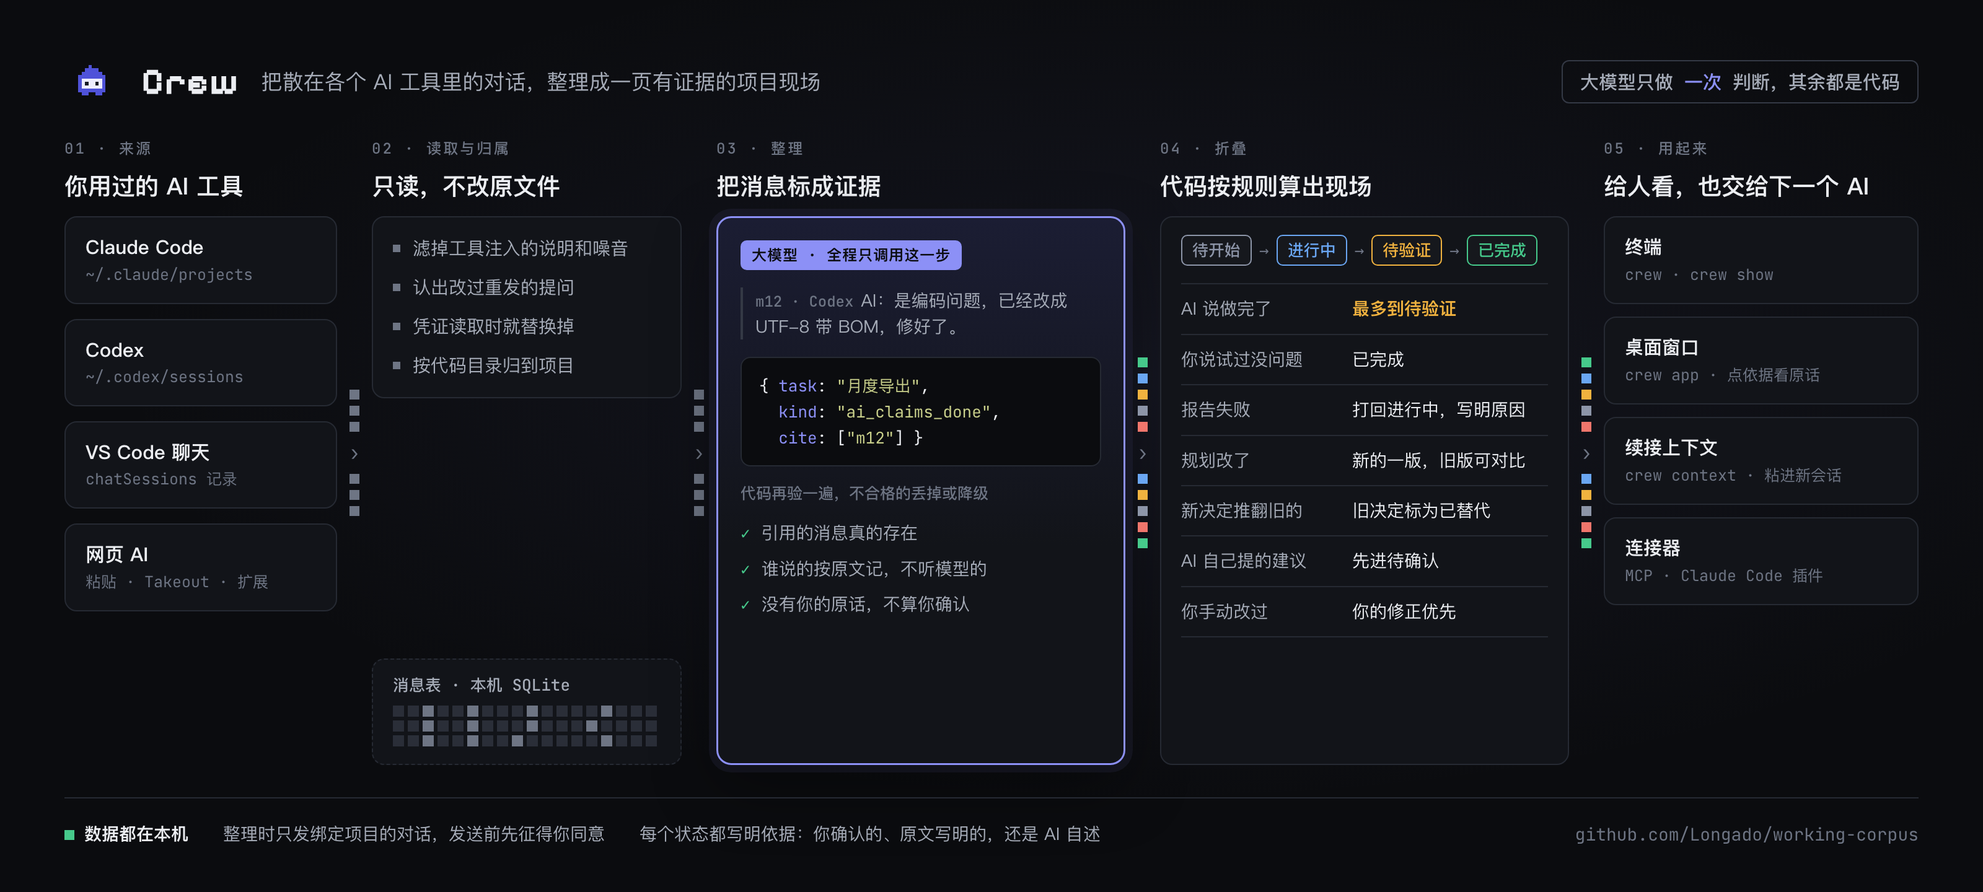
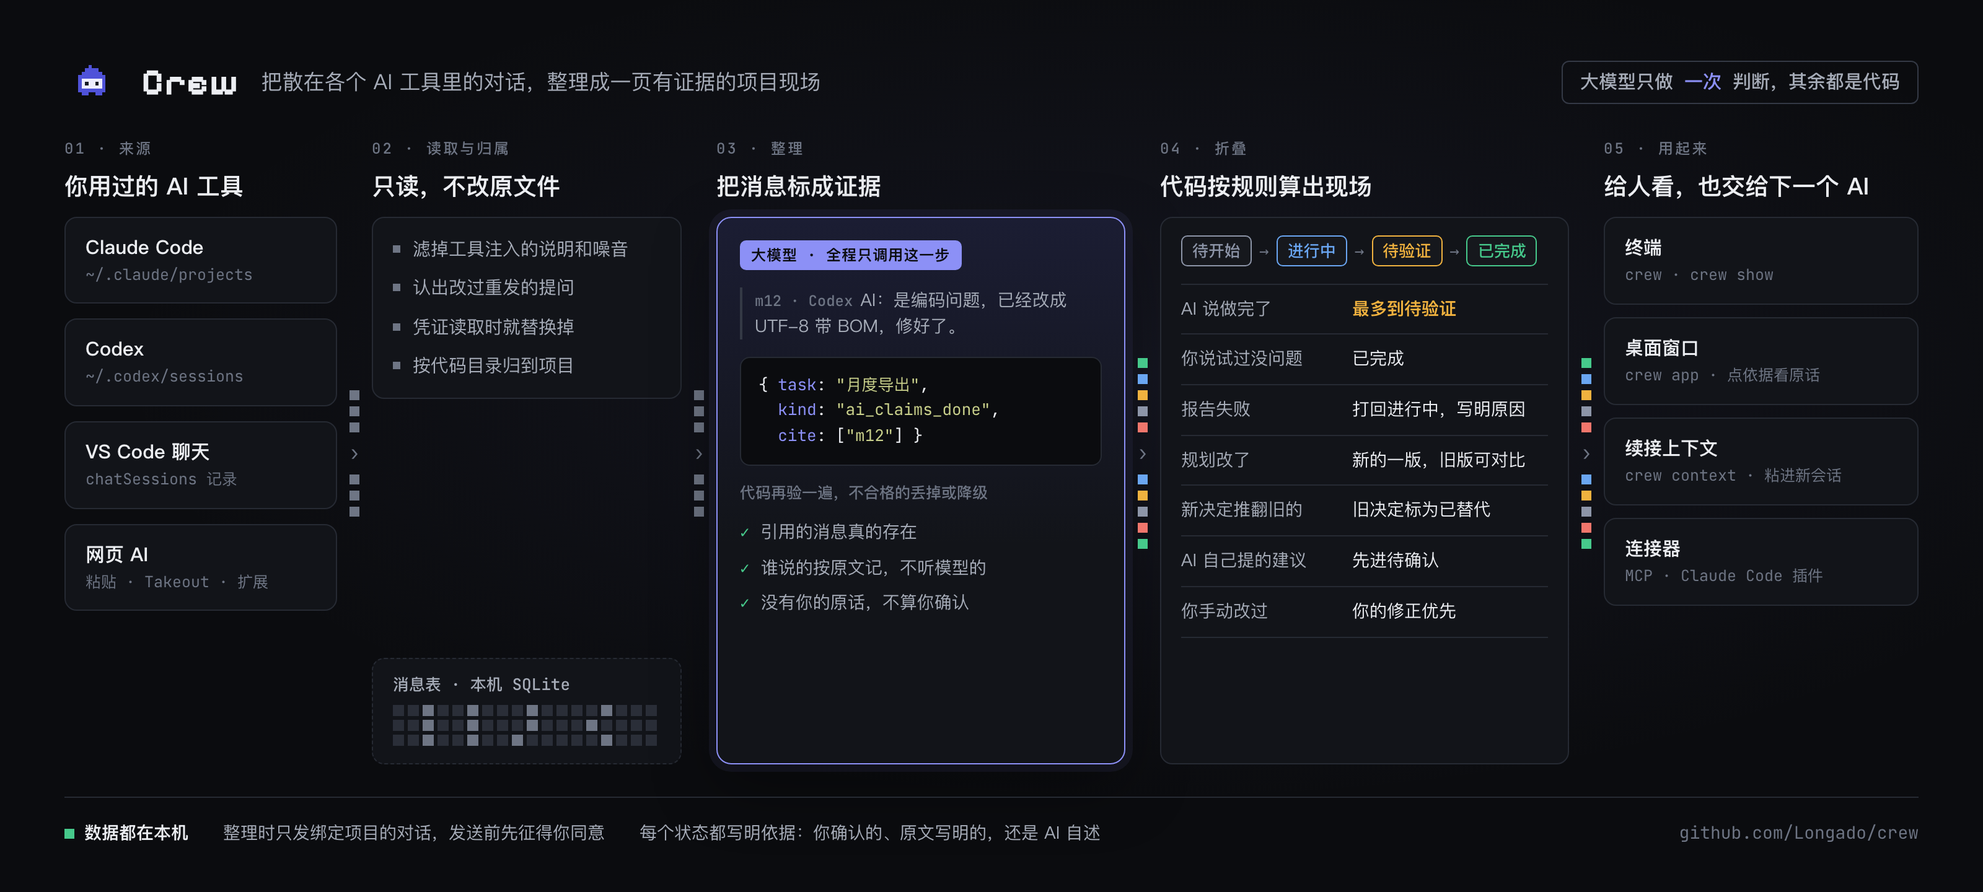
chore: 仓库改名 crew 后更新包名、链接与说明；清掉公开文件里的个人绝对路径

diff --git a/web/app.js b/web/app.js
@@ -399,7 +399,7 @@ async function renderSettings() {
   const projectOpts = app.projects.map((p) => `<option value="${esc(p.id)}" ${p.id === app.pid ? 'selected' : ''}>${esc(p.name)}</option>`).join('');
   return `<div class="head"><div><h1>接入设置</h1><div class="sub">数据都存在本机</div></div><button class="btn pri" data-act="sync">同步</button></div>
   <div class="stack">
-    ${app.pid && !STATIC ? `<div class="blk"><div class="blk-t">绑定工作目录 · ${esc(app.projects.find(p => p.id === app.pid)?.name ?? '')}</div><div class="stack"><label>本机目录（绝对路径）<input id="crew-bind-dir" placeholder="/Users/你/code/项目"></label><div><button class="btn" data-act="bind-workspace">绑定并进入工作台</button></div></div></div>` : ''}
+    ${app.pid && !STATIC ? `<div class="blk"><div class="blk-t">绑定工作目录 · ${esc(app.projects.find(p => p.id === app.pid)?.name ?? '')}</div><div class="stack"><label>本机目录（绝对路径）<input id="crew-bind-dir" placeholder="/path/to/project"></label><div><button class="btn" data-act="bind-workspace">绑定并进入工作台</button></div></div></div>` : ''}
     <div class="tbl"><table><thead><tr><th>来源</th><th>状态</th><th>已读到</th><th>读取范围</th></tr></thead><tbody>
       <tr><td>Claude Code${s.claudeCode.version ? ` <span class="s">${esc(s.claudeCode.version)}</span>` : ''}</td><td>${status(s.claudeCode)}</td><td>${s.claudeCode.sessions} 个会话 · ${s.claudeCode.messages} 条</td><td>只读已绑定目录下的会话；子 agent 的会话暂不读取</td></tr>
       <tr><td>Codex${s.codex.version ? ` <span class="s">${esc(s.codex.version)}</span>` : ''}</td><td>${status(s.codex)}</td><td>${s.codex.sessions} 个会话 · ${s.codex.messages} 条</td><td>只读已绑定目录下的会话；工具报错暂不读取</td></tr>
@@ -428,7 +428,7 @@ async function renderSettings() {
       <div class="stack" style="align-content:start">
         <div class="blk"><div class="blk-t">新建项目</div><div class="stack">
           <label>名称<input type="text" id="np-n"></label><label>一句话目标<input type="text" id="np-g"></label>
-          <label>代码目录（绝对路径）<input type="text" id="np-d" placeholder="/Users/你/code/项目"></label>
+          <label>代码目录（绝对路径）<input type="text" id="np-d" placeholder="/path/to/project"></label>
           <div><button class="btn pri" data-act="create">建项目</button></div></div></div>
         <div class="blk"><div class="blk-t">整理方式</div><div>整理使用远程模型 ${esc(s.model)}，只发送已绑定项目的对话正文。读取时已把像密钥、令牌的内容换成“[已隐藏的凭证]”，但只覆盖常见格式；特别敏感的对话请自己再核对一遍。</div></div>
         ${app.pid && app.data ? `<div class="blk"><div class="blk-t">数据控制 · ${esc(app.data.project.name)}</div>
@@ -456,7 +456,7 @@ function renderWelcome() {
     <p>你的本地 Agent 工作台。打开项目，在同一个窗口与 Codex、Claude Code 工作，直接处理原生权限提示。</p>
     <div class="blk"><div class="blk-t">打开项目</div><div class="stack">
       <label>名称<input type="text" id="np-n"></label><label>一句话目标<input type="text" id="np-g"></label>
-      <label>工作目录（绝对路径），新终端从这里启动<input type="text" id="np-d" placeholder="/Users/你/code/项目"></label>
+      <label>工作目录（绝对路径），新终端从这里启动<input type="text" id="np-d" placeholder="/path/to/project"></label>
       <div><button class="btn pri" data-act="create">打开项目</button></div></div></div></div>`;
 }
 
@@ -696,7 +696,7 @@ document.addEventListener('click', async (e) => {
 });
 document.addEventListener('keydown', (e) => { if (e.key === 'Escape') { $('#modal').hidden = true; $('#drawer').hidden = true; } });
 window.addEventListener('hashchange', () => load().catch((err) => toast(err.message)));
-if (STATIC) document.body.insertAdjacentHTML('afterbegin', `<div class="demo-bar">在线演示 · 示例数据 · 只读<a href="https://github.com/Longado/working-corpus">装到本机 →</a></div>`);
+if (STATIC) document.body.insertAdjacentHTML('afterbegin', `<div class="demo-bar">在线演示 · 示例数据 · 只读<a href="https://github.com/Longado/crew">装到本机 →</a></div>`);
 // 第一次打开时只读一次新对话（不整理、不调用模型），切换页面时不重复读
 const initialPage = parseHash().page;
 // Live terminals must not wait behind the legacy synchronous conversation scan.

diff --git a/tests/rename-contract.test.ts b/tests/rename-contract.test.ts
@@ -1,0 +1,58 @@
+// 仓库改名只更新公开入口；已安装插件和本地数据继续兼容。
+import { test } from 'node:test';
+import assert from 'node:assert/strict';
+import { readFileSync, readdirSync } from 'node:fs';
+import { join } from 'node:path';
+import { fileURLToPath } from 'node:url';
+
+const ROOT = fileURLToPath(new URL('../', import.meta.url));
+const read = (path: string) => readFileSync(join(ROOT, path), 'utf8');
+const json = (path: string) => JSON.parse(read(path));
+
+test('公开包名与锁文件根包名统一为 crew', () => {
+  assert.equal(json('package.json').name, 'crew');
+  const lock = json('package-lock.json');
+  assert.equal(lock.name, 'crew');
+  assert.equal(lock.packages[''].name, 'crew');
+});
+
+test('安装说明与演示入口使用新仓库、新站点和克隆目录', () => {
+  for (const path of ['README.md', 'README.en.md']) {
+    const text = read(path);
+    assert.ok(text.includes('git clone https://github.com/Longado/crew && cd crew'), path);
+    assert.ok(text.includes('/plugin marketplace add Longado/crew'), path);
+    assert.ok(text.includes('https://longado.github.io/crew/'), path);
+    assert.doesNotMatch(text, /仓库名还叫|repo is still called/);
+  }
+  for (const path of ['README.md', 'README.en.md', 'docs/DEMO.md', 'docs/PLUGIN.md', 'docs/diagram/architecture.html', 'demo/slides.html', 'examples/README.md', 'web/app.js']) {
+    assert.doesNotMatch(read(path), /(?:Longado\/|longado\.github\.io\/)working-corpus/, path);
+  }
+});
+
+test('插件地址更新但安装标识、旧命令和 macOS 身份保持兼容', () => {
+  const plugin = json('.claude-plugin/plugin.json'), market = json('.claude-plugin/marketplace.json');
+  assert.equal(plugin.homepage, 'https://github.com/Longado/crew');
+  assert.equal(plugin.repository, 'https://github.com/Longado/crew');
+  assert.equal(plugin.name, 'working-corpus');
+  assert.equal(market.name, 'working-corpus');
+  assert.equal(market.plugins[0].name, 'working-corpus');
+  assert.equal(market.plugins[0].source, './');
+  assert.equal(json('package.json').bin.corpus, 'bin/corpus');
+  assert.ok(read('docs/PLUGIN.md').includes('/plugin install working-corpus@working-corpus'));
+  assert.ok(read('scripts/make-mac-app.sh').includes('<key>CFBundleIdentifier</key><string>io.github.longado.working-corpus</string>'));
+});
+
+test('公开文档、界面与测试样例不包含个人用户目录', () => {
+  // ponytail: 只读源码与文档，跳过媒体二进制和生成目录；不启动应用或模型。
+  const check = (path: string) => {
+    for (const entry of readdirSync(join(ROOT, path), { withFileTypes: true })) {
+      const child = join(path, entry.name);
+      if (entry.isDirectory()) check(child);
+      else if (entry.isFile() && /\.(md|json|txt|html|[cm]?js|ts|tape|sh)$/.test(entry.name)) {
+        assert.doesNotMatch(read(child), /[/]Users[/]/, child);
+      }
+    }
+  };
+  for (const path of ['docs', 'demo', 'examples', 'scripts/probes', 'tests']) check(path);
+  assert.doesNotMatch(read('web/app.js'), /[/]Users[/]/);
+});

diff --git a/demo/slides.html b/demo/slides.html
@@ -244,8 +244,8 @@
 <section class="slide" id="end">
   <img class="in" src="../web/logo.svg" alt="">
   <div class="brand in" style="--i:1">Crew</div>
-  <div class="url in" style="--i:2">github.com/Longado/working-corpus</div>
-  <div class="url2 in" style="--i:3">在线演示 · longado.github.io/working-corpus</div>
+  <div class="url in" style="--i:2">github.com/Longado/crew</div>
+  <div class="url2 in" style="--i:3">在线演示 · longado.github.io/crew</div>
   <div class="pills in" style="--i:4"><span>开源</span><span>数据在本机</span><span>只认证据</span></div>
 </section>
 

diff --git a/docs/diagram/architecture.html b/docs/diagram/architecture.html
@@ -171,7 +171,7 @@
     <span><span class="dot"></span><b>数据都在本机</b></span>
     <span>整理时只发绑定项目的对话，发送前先征得你同意</span>
     <span>每个状态都写明依据：你确认的、原文写明的，还是 AI 自述</span>
-    <span style="margin-left:auto;font-family:var(--mono);color:var(--ink-3)">github.com/Longado/working-corpus</span>
+    <span style="margin-left:auto;font-family:var(--mono);color:var(--ink-3)">github.com/Longado/crew</span>
   </footer>
 </div>
 <script>

diff --git a/README.en.md b/README.en.md
@@ -18,8 +18,8 @@
 
 <p align="center">
   <a href="README.md">简体中文</a> ·
-  <a href="https://longado.github.io/working-corpus/">Live demo</a> ·
-  <a href="https://longado.github.io/working-corpus/media/explainer.mp4">Explainer video (Chinese)</a> ·
+  <a href="https://longado.github.io/crew/">Live demo</a> ·
+  <a href="https://longado.github.io/crew/media/explainer.mp4">Explainer video (Chinese)</a> ·
   <a href="#quick-start">Quick start</a> ·
   <a href="#build-with-us">Build with us</a>
 </p>
@@ -33,11 +33,11 @@ Crew does two things:
 - **Workbench.** Open several Claude Code and Codex terminals in a project directory and switch between single, split and four-pane layouts. Or let Codex form a small team, or have Claude Code act as lead, split the job into task cards and hand them to Codex workers. Workers are read-only unless their card declares writable paths and the lead enables `--write`; every claim they hand back must trace to the original text before it counts.
 - **Project view.** Read your Claude Code, Codex, VS Code and web AI conversations and boil them down to one page: what you set out to build, what changed, what's really done and what the AI only says is done, where it's stuck, what's next. When you switch tools you take an accurate briefing with you.
 
-It's a **local app**: a `crew` command in the terminal and a standalone desktop window. Your data stays on your machine. The repo is still called working-corpus, the project's earlier name; the old `corpus` command keeps working.
+It's a **local app**: a `crew` command in the terminal and a standalone desktop window. Your data stays on your machine. The product and repository are now called Crew, previously Working Corpus; the old `corpus` command keeps working.
 
 > **Early alpha.** The project-view logic, the offline terminal team demo and lead mode have all been run for real. The terminal workbench, layout switching and team page inside the window have not been clicked through in a real window yet, the real-model loop for the Codex team and delegation isn't finished, and there's no long-run data on accuracy for real projects. See [Current status](#current-status).
 
-<p align="center"><a href="https://longado.github.io/working-corpus/media/explainer.mp4"><b>▶ 4-minute explainer (Chinese)</b></a>　·　<a href="https://longado.github.io/working-corpus/"><b>Live demo</b></a>　·　<a href="examples/">Example files</a>　·　<a href="docs/DEMO.md">Demo script</a></p>
+<p align="center"><a href="https://longado.github.io/crew/media/explainer.mp4"><b>▶ 4-minute explainer (Chinese)</b></a>　·　<a href="https://longado.github.io/crew/"><b>Live demo</b></a>　·　<a href="examples/">Example files</a>　·　<a href="docs/DEMO.md">Demo script</a></p>
 
 The video and the live demo cover the project-view half. The video is narrated in Chinese with subtitles: why it exists, the principles it holds to, then the terminal and the window. The live demo needs no install: it opens an example project, a small bookkeeping mini-program, with six conversations from Gemini web, Codex and Claude Code. You can see task states, the two plan versions, superseded decisions, the original words behind each claim, and the handoff context. The demo is read-only.
 
@@ -68,7 +68,7 @@ Needs Node 22.18 or newer, no build step. Summarizing conversations needs an LLM
 Paste this into Claude Code, Codex or any AI tool with a terminal:
 
 ```text
-Install https://github.com/Longado/working-corpus on this machine (the product is
+Install https://github.com/Longado/crew on this machine (the product is
 called Crew). Read README.en.md first, check that Node is 22.18 or newer, clone the
 repo, run npm install and npm link, then run crew demo to create the example project
 and crew app to open the window. If I also want lead mode, remind me it needs
@@ -78,7 +78,7 @@ Python 3 and a signed-in Codex CLI.
 ### Option B: install it yourself
 
 ```
-git clone https://github.com/Longado/working-corpus && cd working-corpus
+git clone https://github.com/Longado/crew && cd crew
 npm install && npm link          # installs the global crew command (corpus still works)
 
 crew demo                        # create the example project from sample data
@@ -173,7 +173,7 @@ These are thin connectors and don't work without the local app.
 
 | Connector | What it does | Notes |
 |---|---|---|
-| Claude Code plugin | Pull the project page and handoff inside a conversation; syncs in the background when a session ends | `/plugin marketplace add Longado/working-corpus`, see `docs/PLUGIN.md` |
+| Claude Code plugin | Pull the project page and handoff inside a conversation; syncs in the background when a session ends | `/plugin marketplace add Longado/crew`, see `docs/PLUGIN.md` |
 | MCP connector | For Codex, Cursor and other MCP-capable tools | see `docs/MCP.md` |
 | Gemini browser extension | One click on a Gemini chat page adds it to a project, then new messages are added automatically | load `extension/` in developer mode, see `docs/EXTENSION.md` |
 

diff --git a/docs/HANDOFF.md b/docs/HANDOFF.md
@@ -130,7 +130,7 @@
 
 **验证：** 当前类型与语法检查、相关回归及两种真实 PTY 检查已运行，确切统计与来源哈希见 [本轮回执](verification/crew-tui-acceptance-2026-09-30.json)。[宽屏捕获](verification/crew-tui-desktop-2026-09-30.txt)、[窄屏捕获](verification/crew-tui-narrow-2026-09-30.txt) 来自离线演示的真实 PTY 输出；不替代真人使用或终端字体验收。
 
-**已确认的阻塞：** 本轮为 App Server 添加有界、脱敏的 stderr 与退出原因后，仅做了一次无模型启动探测。错误为 `failed to initialize sqlite state runtime under /Users/eddie/.codex`，并伴有 `Operation not permitted`，退出 1；没有建立可用会话，也没有开始模型 turn。未改 `HOME` / `CODEX_HOME` 或权限，没有同一条件重试。下方此前“断开原因未知”的记录保留为历史。
+**已确认的阻塞：** 本轮为 App Server 添加有界、脱敏的 stderr 与退出原因后，仅做了一次无模型启动探测。错误为 `failed to initialize sqlite state runtime under <用户目录>/.codex`，并伴有 `Operation not permitted`，退出 1；没有建立可用会话，也没有开始模型 turn。未改 `HOME` / `CODEX_HOME` 或权限，没有同一条件重试。下方此前“断开原因未知”的记录保留为历史。
 
 **下一步入口：** [终端团队使用与固定检查](../scripts/probes/team-tui/README.md)。在正常桌面终端先运行 `npm run crew -- team --demo` 查看界面，再完成真实只读两成员与隔离修复、审批和中断。模型闭环仍待验证；本轮没有 commit/push、发布或更新安装包。
 
@@ -187,7 +187,7 @@
 
 - 产品名 **Crew**。先成为可日常使用的 Orca 式本地工作台，再考虑 Team、自动交接和画布；下方更早的 Team 优先计划是历史记录，不是当前执行顺序。
 - 保留熟悉的项目导航、会话标签和终端布局。先解决实际使用问题，逐步交付，不扩大测试流程或反复消耗模型额度。
-- 仓库仍叫 `working-corpus`；旧包名、命令、数据位置保持兼容。
+- 产品与仓库现都叫 **Crew**（早先叫 Working Corpus），仓库为 `Longado/crew`，npm 包名为 `crew`；本机文件夹仍叫 `working-corpus`，旧命令、数据位置与插件标识保持兼容。
 
 ### 已落地与边界
 
@@ -239,7 +239,7 @@
 
 ## 现在到哪了
 
-项目已改名 **Working Corpus**（原名 Agent 工牌），仓库 `Longado/working-corpus`，**公开**。git 已配置匿名邮箱。
+产品与仓库现都叫 **Crew**（早先叫 Working Corpus，最初叫 Agent 工牌），仓库 `Longado/crew`，**公开**。git 已配置匿名邮箱。
 
 - MVP（第 0 到 10 步）完成：读取、整理、引擎、网页、命令行、MCP 连接器。
 - 第 11 轮完成：重新整理（保留修正和任务编号）、移出误归类会话、工具版本。
@@ -276,7 +276,7 @@
 ## 环境和坑
 
 - 运行：Node 22.18+，`npm run corpus -- help`。`.env` 放 `DEEPSEEK_API_KEY` 和 `CORPUS_MODEL`，不提交。
-- 仓库是公开的：提交前 `git diff --cached | grep -iE "sk-|/Users/|@gmail"` 自检，别把真实对话、个人路径、私人项目名写进文档。
+- 仓库是公开的：提交前 `git diff --cached | grep -iE "sk-|/[U]sers/|@gmail"` 自检，别把真实对话、个人路径、私人项目名写进文档。
 - Claude Code 命令行也可以当模型，但要 `env -u ANTHROPIC_API_KEY`，见 `docs/contracts.md`。
 - Node 直接跑 TypeScript，不支持构造函数参数属性、enum 这类要编译的语法（`erasableSyntaxOnly`）。
 - 全局 git pre-commit 钩子：同一个提交里既改已有测试文件、又改源码会被拦。新增测试文件不受影响。要改旧测试就单独提交。

diff --git a/docs/verification/crew-access-diagnosis-2026-10-02.md b/docs/verification/crew-access-diagnosis-2026-10-02.md
@@ -4,7 +4,7 @@
 
 ## 原始证据
 
-主会话：`/Users/eddie/.codex/sessions/2026/10/01/rollout-2026-10-01T14-28-48-01a0f626-a580-7cd3-ae2f-dcfa3b2564cf.jsonl`。下表行号为调用 → 工具返回，时间均 UTC+8；只摘录相关返回，不附带浏览器全量记录或私密内容。
+主会话：`<用户目录>/.codex/sessions/<会话记录>.jsonl`。下表行号为调用 → 工具返回，时间均 UTC+8；只摘录相关返回，不附带浏览器全量记录或私密内容。
 
 | 时间 | 行号 | 动作与原始结果 | 判断 |
 |---|---|---|---|
@@ -18,7 +18,7 @@
 
 本轮 `cua.getState()` 能列出应用与 Chrome 浏览器，说明正式工具入口并非整体失效；这不代表具体网站已获准。浏览器拒绝同时明确禁止间接执行、CDP、其他浏览器入口或其他规避方式，该页面访问已停止。
 
-权限配置只读核对：`/Users/eddie/.codex/config.toml` 存在，但顶层未设置 `sandbox_mode`／`approval_policy`／`approvals_reviewer`；工作区 `.codex/config.toml` 不存在。当前 `workspace-write`／`never` 来自会话已提供的执行约束；宿主或管理策略具体哪层选定它，现有工具未公开。不应把修改一个本地配置文件当作当前受管理会话已恢复权限的证据。
+权限配置只读核对：`<用户目录>/.codex/config.toml` 存在，但顶层未设置 `sandbox_mode`／`approval_policy`／`approvals_reviewer`；工作区 `.codex/config.toml` 不存在。当前 `workspace-write`／`never` 来自会话已提供的执行约束；宿主或管理策略具体哪层选定它，现有工具未公开。不应把修改一个本地配置文件当作当前受管理会话已恢复权限的证据。
 
 ## 正式恢复与验证
 

diff --git a/scripts/probes/codex-team/README.md b/scripts/probes/codex-team/README.md
@@ -2,7 +2,7 @@
 
 本轮源码和无模型检查已经落地。真实 App Server 启动检查在建立会话前断开，未调用模型；浏览器工具无法加载 request-header policy，未完成视觉检查。下面是正常桌面环境里的固定验收步骤，不是已经通过的结果。
 
-1. 在项目根目录运行 `npm run crew -- open "/Users/eddie/Desktop/Workspace/01_项目/working-corpus/scripts/probes/delegation/fixtures/read-only"`。
+1. 在项目根目录运行 `npm run crew -- open "<仓库路径>/scripts/probes/delegation/fixtures/read-only"`。
 2. 进入团队页，选 **Codex 团队 · 原生子 Agent**，权限选只读。目标固定为：“创建两位原生成员，一位读取 README.md，一位读取 src/routes.ts。分别记录任务、文件职责与验收条件，绑定真实会话；各引用一处实际内容，负责人读取文件后验收，最后说明结果。不得修改文件、发布或增加其他任务。”
 3. 检查底部条显示负责人及真实成员，能展开活动和成果；执行结束时任务先为待检查，负责人接受后进度才增加。不能只凭出现三张工牌确认流程通过。
 4. 切换到终端页，再回团队页；团队条和状态应继续更新。在成员尚在执行时发一句“请保留原职责范围”，核对投递及实际成员回复。草稿应在活动更新时保留。

diff --git a/scripts/probes/team-tui/README.md b/scripts/probes/team-tui/README.md
@@ -38,6 +38,6 @@ npm run crew -- team scripts/probes/delegation/fixtures/read-only
 
 真实 PTY 已用 CLI 协议替身和离线演示验证输入、原生提问应答、审批、中断、粘贴、中文编辑、缩放与退出；这些测试不代表真实模型任务完成。捕获画面是 PTY 输出文本，不是字体或真人使用验收。
 
-本轮真实启动未进入模型 turn：当前执行沙箱不能在 `/Users/eddie/.codex` 初始化 Codex SQLite 状态运行时，App Server 退出 1。错误与脱敏尾部见 [启动记录](../../../docs/verification/crew-tui-native-startup-2026-09-30.json)。没有修改权限、全局配置或使用另一种目录绕过限制；同一环境没有重复启动。
+本轮真实启动未进入模型 turn：当前执行沙箱不能在 `<用户目录>/.codex` 初始化 Codex SQLite 状态运行时，App Server 退出 1。错误与脱敏尾部见 [启动记录](../../../docs/verification/crew-tui-native-startup-2026-09-30.json)。没有修改权限、全局配置或使用另一种目录绕过限制；同一环境没有重复启动。
 
 下一步在正常桌面环境先完成上面的只读样本，再按原有隔离修复样本测试 `--write`。额度、订阅当前可用性和真实成员闭环仍需实测。
